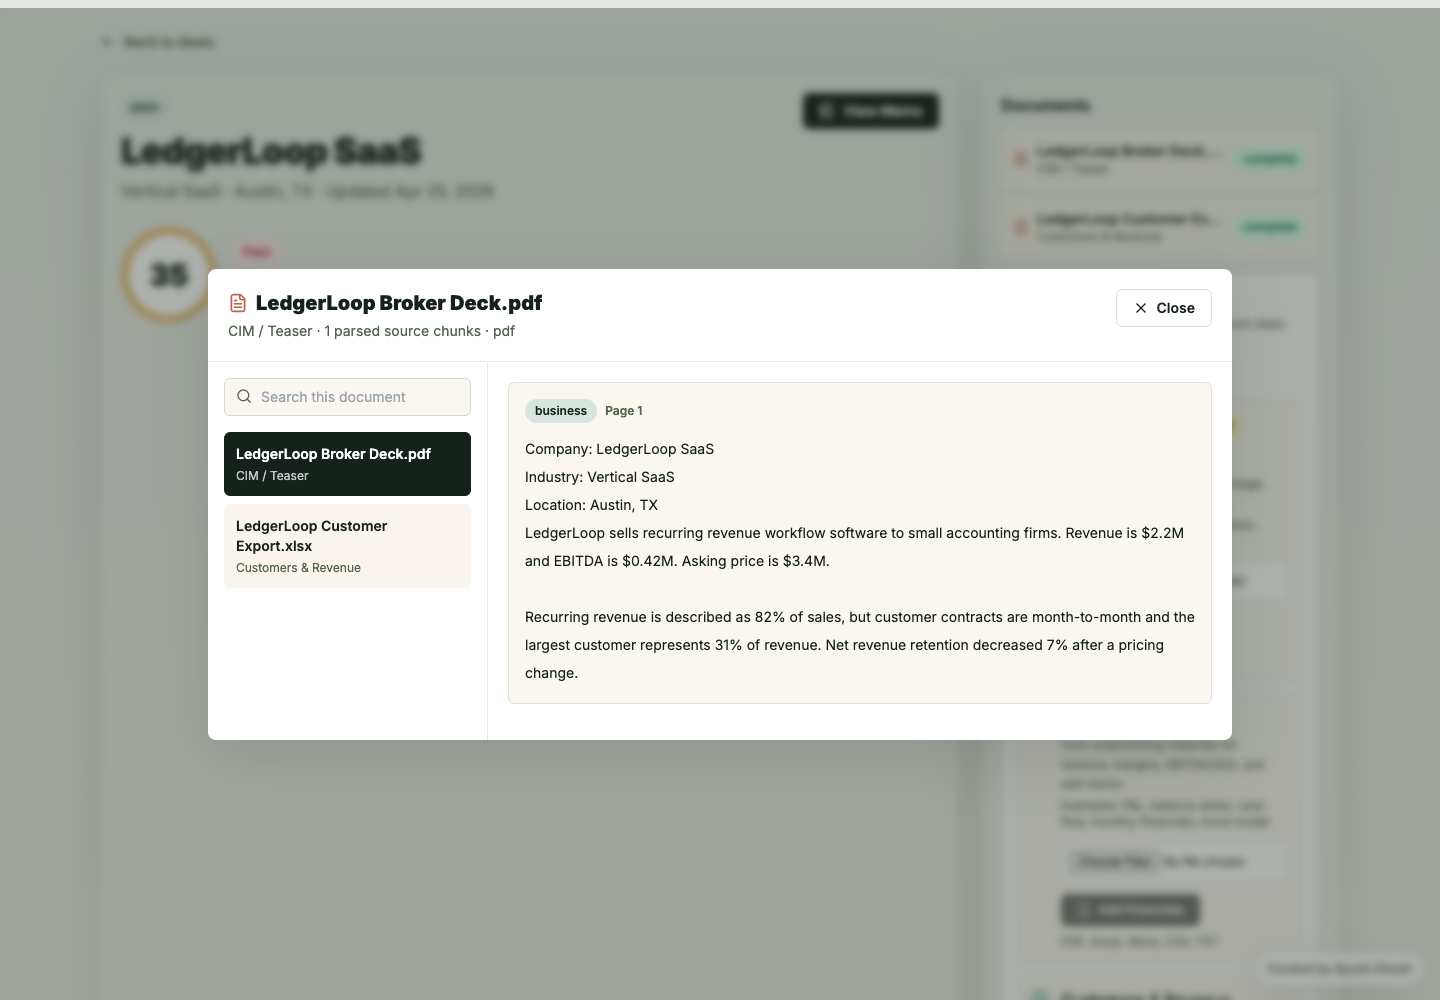
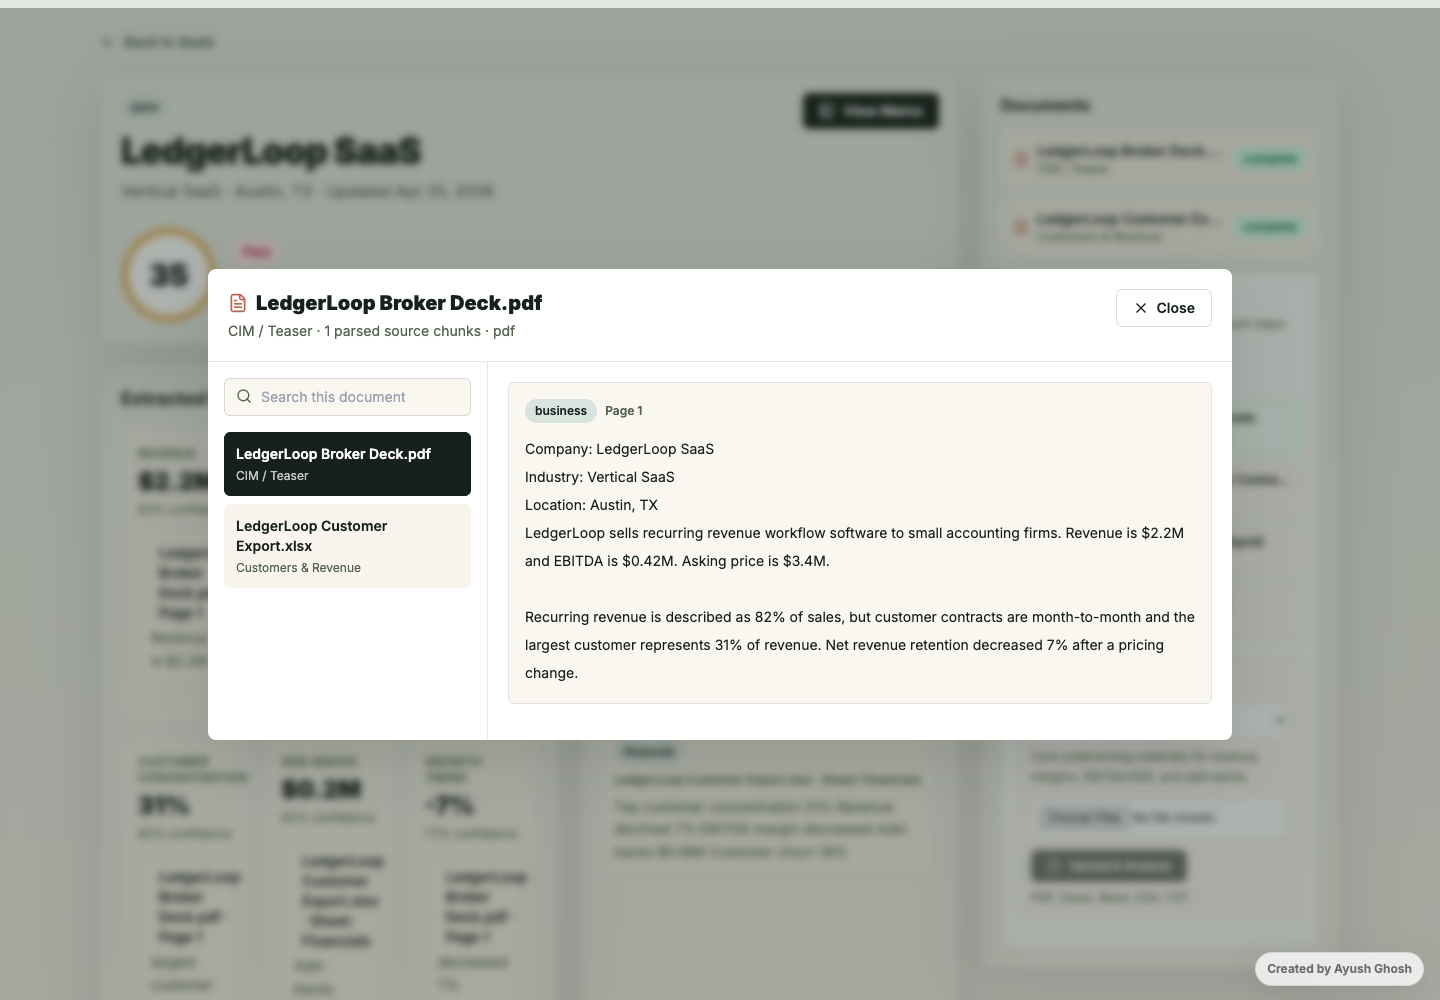
Tighten dashboard layout and screenshots

diff --git a/components/document-uploader.tsx b/components/document-uploader.tsx
@@ -7,16 +7,14 @@ import { documentCategories, inferDocumentCategory } from "@/lib/documents/categ
 import { DealDocument, DocumentCategory } from "@/lib/types";
 
 export function DocumentUploader({ dealId, documents }: { dealId: string; documents: DealDocument[] }) {
-  const [filesByCategory, setFilesByCategory] = useState<Partial<Record<DocumentCategory, FileList | null>>>({});
+  const [category, setCategory] = useState<DocumentCategory>("financials");
+  const [files, setFiles] = useState<FileList | null>(null);
   const [status, setStatus] = useState<string>("");
-  const [activeCategory, setActiveCategory] = useState<DocumentCategory | null>(null);
   const [busy, setBusy] = useState(false);
 
-  async function upload(category: DocumentCategory) {
-    const files = filesByCategory[category];
+  async function upload() {
     if (!files?.length) return;
     setBusy(true);
-    setActiveCategory(category);
     setStatus("Processing documents...");
     const form = new FormData();
     form.append("dealId", dealId);
@@ -27,7 +25,6 @@ export function DocumentUploader({ dealId, documents }: { dealId: string; docume
     if (!response.ok) {
       setStatus(body.error || "Upload failed.");
       setBusy(false);
-      setActiveCategory(null);
       return;
     }
     setStatus("Analysis complete. Refreshing...");
@@ -44,44 +41,60 @@ export function DocumentUploader({ dealId, documents }: { dealId: string; docume
         <Badge>{documents.length} files</Badge>
       </div>
 
-      <div className="mt-4 grid gap-3">
-        {documentCategories.map((category) => {
-          const uploadedCount = documents.filter((document) => (document.category ?? inferDocumentCategory(document.fileName)) === category.id).length;
-          const inputId = `documents-${category.id}`;
-          const selectedCount = filesByCategory[category.id]?.length ?? 0;
+      <div className="mt-4 grid grid-cols-2 gap-2">
+        {documentCategories.map((item) => {
+          const uploadedCount = documents.filter((document) => (document.category ?? inferDocumentCategory(document.fileName)) === item.id).length;
 
           return (
-            <section key={category.id} className="rounded-md border border-ink/10 bg-paper/60 p-3">
-              <div className="flex items-start gap-3">
-                {uploadedCount ? <CheckCircle2 className="mt-0.5 shrink-0 text-emerald-700" size={18} /> : <Circle className="mt-0.5 shrink-0 text-moss" size={18} />}
-                <div className="min-w-0 flex-1">
-                  <div className="flex flex-wrap items-center gap-2">
-                    <label className="font-semibold text-ink" htmlFor={inputId}>{category.label}</label>
-                    {category.required && <Badge tone="warn">important</Badge>}
-                    {!!uploadedCount && <Badge tone="good">{uploadedCount} uploaded</Badge>}
-                  </div>
-                  <p className="mt-1 text-xs leading-relaxed text-moss">{category.description}</p>
-                  <p className="mt-1 text-xs text-moss">Examples: {category.examples}</p>
-                  <input
-                    id={inputId}
-                    type="file"
-                    multiple
-                    accept=".pdf,.xlsx,.xls,.csv,.docx,.doc,.txt"
-                    className="mt-3 block w-full rounded-md border border-ink/15 bg-white p-2 text-xs"
-                    onChange={(event) => setFilesByCategory((current) => ({ ...current, [category.id]: event.target.files }))}
-                  />
-                  <div className="mt-3 flex flex-wrap items-center gap-2">
-                    <Button className="px-3 py-1.5 text-xs" onClick={() => upload(category.id)} disabled={busy || !selectedCount}>
-                      {busy && activeCategory === category.id ? <Upload size={14} /> : <FilePlus2 size={14} />}
-                      {busy && activeCategory === category.id ? "Analyzing..." : `Add ${category.label}`}
-                    </Button>
-                    <span className="text-xs text-moss">{selectedCount ? `${selectedCount} selected` : "PDF, Excel, Word, CSV, TXT"}</span>
-                  </div>
-                </div>
-              </div>
-            </section>
+            <button
+              key={item.id}
+              className={`focus-ring rounded-md border p-2 text-left transition ${
+                item.id === category
+                  ? "border-emerald-200 bg-emerald-50/70"
+                  : "border-ink/10 bg-paper/60 hover:bg-mist/60"
+              }`}
+              onClick={() => setCategory(item.id)}
+              type="button"
+            >
+              <span className="flex items-center gap-2">
+                {uploadedCount ? <CheckCircle2 className="shrink-0 text-emerald-700" size={15} /> : <Circle className="shrink-0 text-moss" size={15} />}
+                <span className="truncate text-xs font-bold text-ink">{item.label}</span>
+              </span>
+              <span className="mt-1 block text-xs text-moss">{uploadedCount ? `${uploadedCount} uploaded` : item.required ? "Important" : "Optional"}</span>
+            </button>
           );
         })}
+      </div>
+
+      <div className="mt-4 rounded-md border border-ink/10 bg-paper/60 p-3">
+        <label className="text-xs font-bold text-ink" htmlFor="document-category">Document section</label>
+        <select
+          id="document-category"
+          className="focus-ring mt-2 w-full rounded-md border border-ink/15 bg-white p-2 text-sm"
+          value={category}
+          onChange={(event) => setCategory(event.target.value as DocumentCategory)}
+        >
+          {documentCategories.map((item) => (
+            <option key={item.id} value={item.id}>{item.label}</option>
+          ))}
+        </select>
+        <p className="mt-2 text-xs leading-relaxed text-moss">
+          {documentCategories.find((item) => item.id === category)?.description}
+        </p>
+        <input
+          type="file"
+          multiple
+          accept=".pdf,.xlsx,.xls,.csv,.docx,.doc,.txt"
+          className="mt-3 block w-full rounded-md border border-ink/15 bg-white p-2 text-xs"
+          onChange={(event) => setFiles(event.target.files)}
+        />
+        <div className="mt-3 flex flex-wrap items-center gap-2">
+          <Button className="px-3 py-1.5 text-xs" onClick={upload} disabled={busy || !files?.length}>
+            {busy ? <Upload size={14} /> : <FilePlus2 size={14} />}
+            {busy ? "Analyzing..." : "Upload & Analyze"}
+          </Button>
+          <span className="text-xs text-moss">{files?.length ? `${files.length} selected` : "PDF, Excel, Word, CSV, TXT"}</span>
+        </div>
       </div>
       <p className="mt-3 text-sm text-moss">{status}</p>
     </div>

diff --git a/app/deals/[dealId]/page.tsx b/app/deals/[dealId]/page.tsx
@@ -24,54 +24,57 @@ export default async function DealPage({ params }: { params: Promise<{ dealId: s
         Back to deals
       </Link>
 
-      <header className="grid gap-5 lg:grid-cols-[1fr_360px]">
-        <Panel>
-          <div className="flex flex-wrap items-start justify-between gap-4">
-            <div>
-              <Badge>{deal.status}</Badge>
-              <h1 className="mt-3 text-4xl font-black tracking-tight">{deal.name}</h1>
-              <p className="mt-2 text-moss">{deal.industry} · {deal.location} · Updated {formatDate(deal.updatedAt)}</p>
+      <div className="grid items-start gap-5 lg:grid-cols-[1fr_360px]">
+        <div className="space-y-5">
+          <Panel>
+            <div className="flex flex-wrap items-start justify-between gap-4">
+              <div>
+                <Badge>{deal.status}</Badge>
+                <h1 className="mt-3 text-4xl font-black tracking-tight">{deal.name}</h1>
+                <p className="mt-2 text-moss">{deal.industry} · {deal.location} · Updated {formatDate(deal.updatedAt)}</p>
+              </div>
+              <Link href={`/deals/${deal.id}/memo`} className="focus-ring inline-flex items-center gap-2 rounded-md bg-ink px-4 py-2 text-sm font-semibold text-white hover:bg-moss">
+                <NotebookText size={16} />
+                View Memo
+              </Link>
             </div>
-            <Link href={`/deals/${deal.id}/memo`} className="focus-ring inline-flex items-center gap-2 rounded-md bg-ink px-4 py-2 text-sm font-semibold text-white hover:bg-moss">
-              <NotebookText size={16} />
-              View Memo
-            </Link>
-          </div>
-          <div className="mt-6">
-            <DealScore deal={deal} />
-          </div>
-        </Panel>
-        <Panel>
-          <h2 className="font-bold">Documents</h2>
-          <DocumentList documents={documents} chunks={chunks} />
-          <div className="mt-4">
-            <DocumentUploader dealId={deal.id} documents={documents} />
-          </div>
-        </Panel>
-      </header>
+            <div className="mt-6">
+              <DealScore deal={deal} />
+            </div>
+          </Panel>
 
-      <section className="mt-5 grid gap-5 xl:grid-cols-[1fr_430px]">
-        <FinancialSummary metrics={metrics} />
-        <Panel>
-          <h2 className="text-lg font-bold">Source Chunks</h2>
-          <div className="mt-4 max-h-[520px] space-y-3 overflow-auto pr-1">
-            {chunks.map((chunk) => (
-              <article key={chunk.id} className="rounded-md border border-ink/10 bg-paper/60 p-3">
-                <div className="mb-2 flex flex-wrap items-center gap-2">
-                  <Badge>{chunk.chunkType}</Badge>
-                  <span className="text-xs font-semibold text-moss">{chunk.documentName} · {chunk.locator}</span>
-                </div>
-                <p className="text-sm leading-relaxed text-moss">{chunk.text.slice(0, 520)}{chunk.text.length > 520 ? "..." : ""}</p>
-              </article>
-            ))}
-          </div>
-          {!chunks.length && <p className="mt-3 text-sm text-moss">Parsed source chunks will appear here after upload.</p>}
-        </Panel>
-      </section>
+          <section className="grid gap-5 xl:grid-cols-[1fr_380px]">
+            <FinancialSummary metrics={metrics} />
+            <Panel>
+              <h2 className="text-lg font-bold">Source Chunks</h2>
+              <div className="mt-4 max-h-[520px] space-y-3 overflow-auto pr-1">
+                {chunks.map((chunk) => (
+                  <article key={chunk.id} className="rounded-md border border-ink/10 bg-paper/60 p-3">
+                    <div className="mb-2 flex flex-wrap items-center gap-2">
+                      <Badge>{chunk.chunkType}</Badge>
+                      <span className="text-xs font-semibold text-moss">{chunk.documentName} · {chunk.locator}</span>
+                    </div>
+                    <p className="text-sm leading-relaxed text-moss">{chunk.text.slice(0, 520)}{chunk.text.length > 520 ? "..." : ""}</p>
+                  </article>
+                ))}
+              </div>
+              {!chunks.length && <p className="mt-3 text-sm text-moss">Parsed source chunks will appear here after upload.</p>}
+            </Panel>
+          </section>
 
-      <section className="mt-5">
-        <RiskPanel risks={risks} />
-      </section>
+          <RiskPanel risks={risks} />
+        </div>
+
+        <aside className="lg:sticky lg:top-6">
+          <Panel>
+            <h2 className="font-bold">Documents</h2>
+            <DocumentList documents={documents} chunks={chunks} />
+            <div className="mt-4">
+              <DocumentUploader dealId={deal.id} documents={documents} />
+            </div>
+          </Panel>
+        </aside>
+      </div>
     </main>
   );
 }
